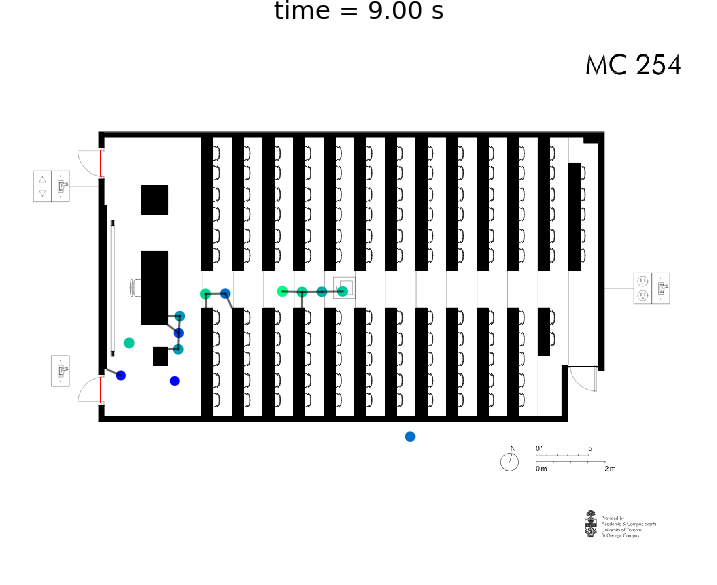
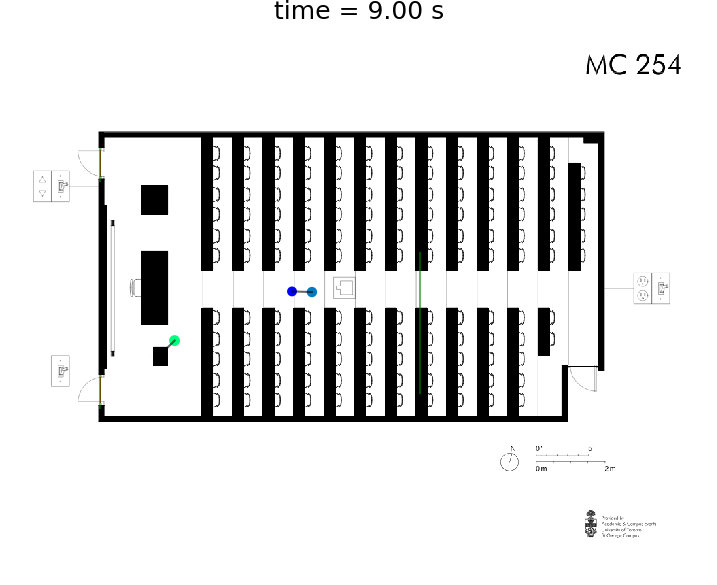
have a group moving out w/ regular sf model! still need to add the hallway domain, make the alterations to the social force model, etc.

diff --git a/schoolgraphs/UofT_Y2/MAT292_Final/cromosim/micro/MC254/MC254_social.py b/schoolgraphs/UofT_Y2/MAT292_Final/cromosim/micro/MC254/MC254_social.py
@@ -54,7 +54,8 @@ with open(opt.jsonfilename) as json_file:
         sys.exit()
 
 """
-    Get parameters from json file : """
+    Get parameters from json file : 
+"""
 
 prefix = input["prefix"]
 if not os.path.exists(prefix):
@@ -107,6 +108,12 @@ print("===> ONLY used during initialization ! Minimal distance between a \
 """
 domains = {}
 domains['MC254'] = dom
+
+print("===> Domain : ", domains["MC254"])
+if (with_graphes):
+    dom.plot(id=0)
+    dom.plot_wall_dist(id=1, step=20)
+
 print("===> All domains = ", domains)
 
 """
@@ -207,6 +214,9 @@ while (t < Tf):
             xyrv = people["xyrv"]
             Vd = people["Vd"]
             Uold = people["Uold"]
+
+        # print x, y, radius, velocity of people
+        #print(xyrv)
 
         if (xyrv.shape[0] > 0):
 

diff --git a/schoolgraphs/UofT_Y2/MAT292_Final/cromosim/micro/MC254/norm_results/.ipynb_checkpoints/pngtogif-checkpoint.py b/schoolgraphs/UofT_Y2/MAT292_Final/cromosim/micro/MC254/norm_results/.ipynb_checkpoints/pngtogif-checkpoint.py
@@ -1,0 +1,21 @@
+# directly from here: https://pythonprogramming.altervista.org/png-to-gif/
+from PIL import Image
+import glob
+
+# Create the frames
+frames = []
+imgs = glob.glob("*.png")
+for i in imgs:
+    new_frame = Image.open(i)
+    frames.append(new_frame)
+frames.pop()
+
+# Save into a GIF file that loops forever
+
+# eventually caculate duration so each frame lasts 1 second
+#   because right now that is the time of each frame
+
+frames[0].save('png_to_gif.gif', format='GIF',
+               append_images=frames[1:],
+               save_all=True,
+               duration=350, loop=0)

diff --git a/schoolgraphs/UofT_Y2/MAT292_Final/cromosim/micro/MC254/norm_results/pngtogif.py b/schoolgraphs/UofT_Y2/MAT292_Final/cromosim/micro/MC254/norm_results/pngtogif.py
@@ -1,0 +1,21 @@
+# directly from here: https://pythonprogramming.altervista.org/png-to-gif/
+from PIL import Image
+import glob
+
+# Create the frames
+frames = []
+imgs = glob.glob("*.png")
+for i in imgs:
+    new_frame = Image.open(i)
+    frames.append(new_frame)
+frames.pop()
+
+# Save into a GIF file that loops forever
+
+# eventually caculate duration so each frame lasts 1 second
+#   because right now that is the time of each frame
+
+frames[0].save('png_to_gif.gif', format='GIF',
+               append_images=frames[1:],
+               save_all=True,
+               duration=350, loop=0)

diff --git a/schoolgraphs/UofT_Y2/MAT292_Final/cromosim/tasks.md b/schoolgraphs/UofT_Y2/MAT292_Final/cromosim/tasks.md
@@ -24,7 +24,8 @@ Main tasks in `json` file
     - May have to change the destination to past the door not at the door. As a byproduct may need to expand the domain into the hallway too
     - Also figure out if you can make it so once a certain number of people reaches a destination that no longer becomes a destination so it can accurately simulate people going to different rows
 - Make the `people` group things
-    - where they start (might need to customize this module)
+    - group moving in
+        - randomly scattered in the hall
 - Make the `sensors`
     - prob at doors, maybe in the hall too, make them visible (green or something)
 
@@ -33,6 +34,5 @@ Main tasks in main `py` file
 - Modify forces to work with our model (Hopf Bifurcation, Density-Dependent)
 
 Main tasks for visualization
-- Combine result images into a gif --> add this to the main `py` file?
 - Maybe modify sensor graphs if you want something more specific but they seem fine tbh
 
